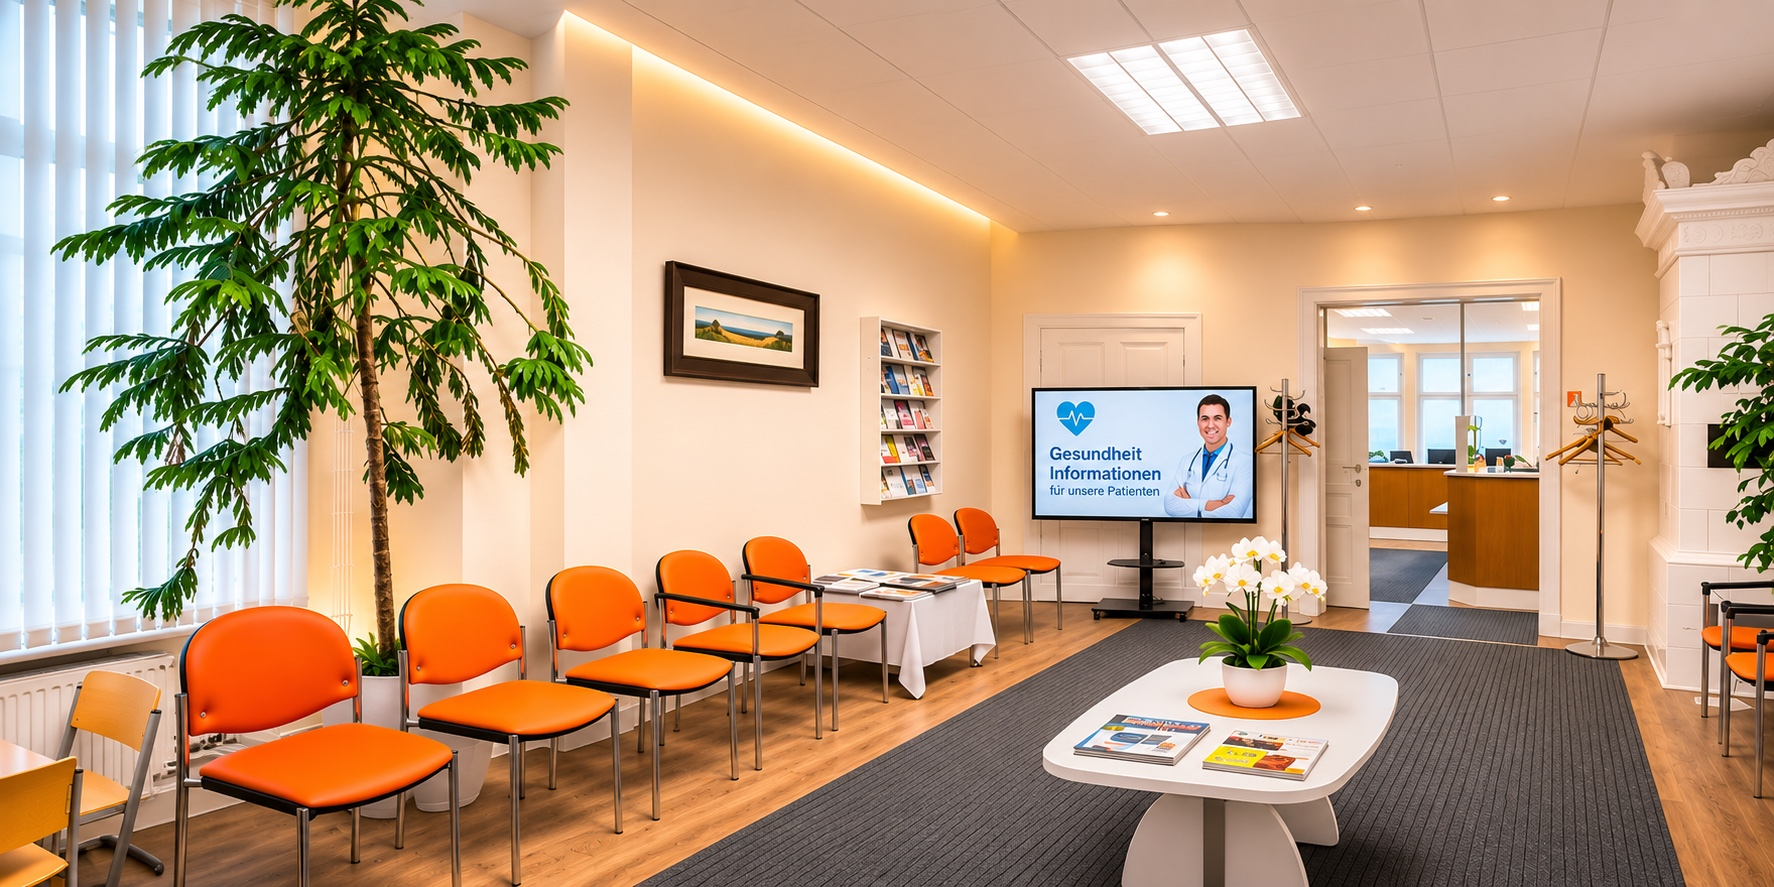
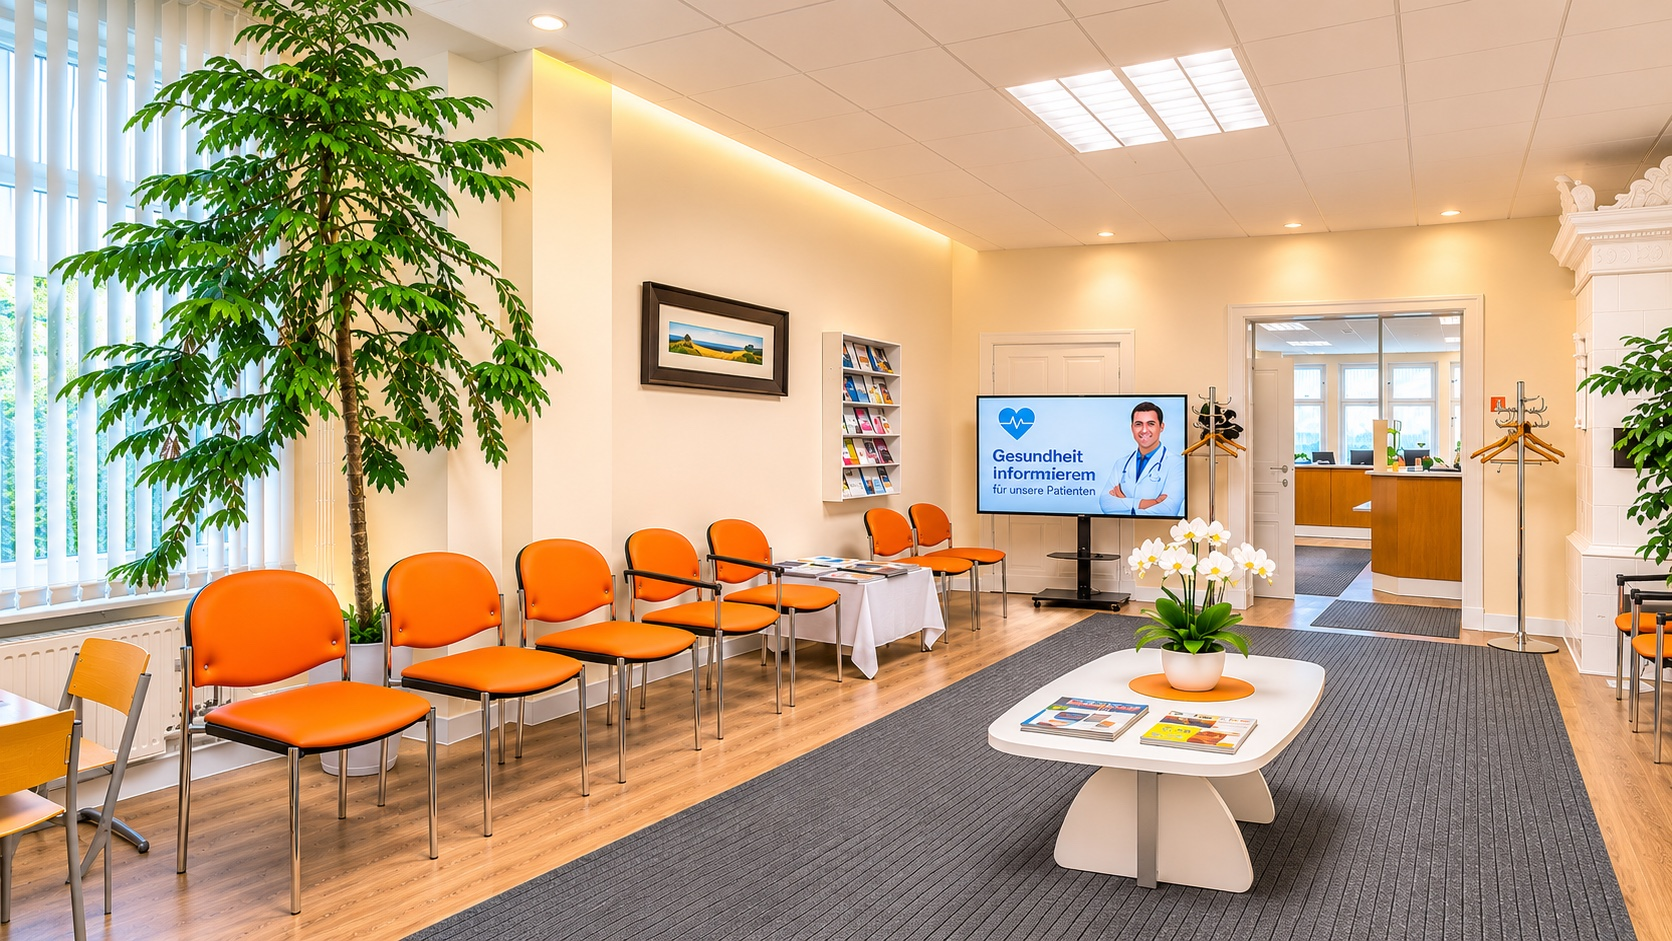
feat(hero): 16:9 waiting-room image with sizes matching the cover crop
New hero is 1672x941 (placeholder: AI-generated, needs practice sign-off
or a real photo before launch). sizes now gives the rendered width under
object-fit: cover, so every viewport gets the full file. Tablet crop
avoids a half-cut TV. Original PNG with C2PA record kept in design/assets.

diff --git a/components/home/Hero.tsx b/components/home/Hero.tsx
@@ -33,7 +33,9 @@ export async function Hero({ builtAt }: { builtAt: number }) {
             alt={t("alt")}
             priority
             quality={85}
-            sizes="(min-width: 1280px) 1136px, (min-width: 768px) calc(100vw - 64px), calc(100vw - 32px)"
+            // object-fit: cover scales the 16:9 photo to the stage height, so it renders wider than the stage.
+            // These are the measured rendered widths (stage ~714px tall on desktop, ~820px tablet, ~940px+ phone).
+            sizes="(min-width: 1024px) 1280px, (min-width: 768px) 1460px, 1680px"
             placeholder="blur"
           />
           <div className="hero-panel">

diff --git a/app/[locale]/layout.tsx b/app/[locale]/layout.tsx
@@ -33,7 +33,7 @@ export async function generateMetadata({ params }: LayoutProps<"/[locale]">): Pr
       siteName: t("siteName"),
       locale: ogLocale[locale],
       url: localeUrl(locale, "/"),
-      images: [{ url: "/assets/hero.jpg", width: 1774, height: 887 }],
+      images: [{ url: "/assets/hero.jpg", width: 1672, height: 941 }],
     },
     // Preview deployments stay out of search results.
     robots: process.env.VERCEL_ENV === "production" ? undefined : { index: false, follow: false },

diff --git a/app/globals.css b/app/globals.css
@@ -298,6 +298,8 @@
   .hero-info .hi-em a:hover { text-decoration: underline; }
   @media (min-width: 768px) {
     .hero-stage { padding: 160px 32px 96px; }
+    /* Tablet: the strip beside the panel shows the reception door, not a half-cut TV screen. */
+    .hero-img { object-position: 60% 50%; }
     .hero-panel { padding: var(--spacing-32); }
     .hero .hero-panel h1 { font-size: 2.5rem; }
   }
